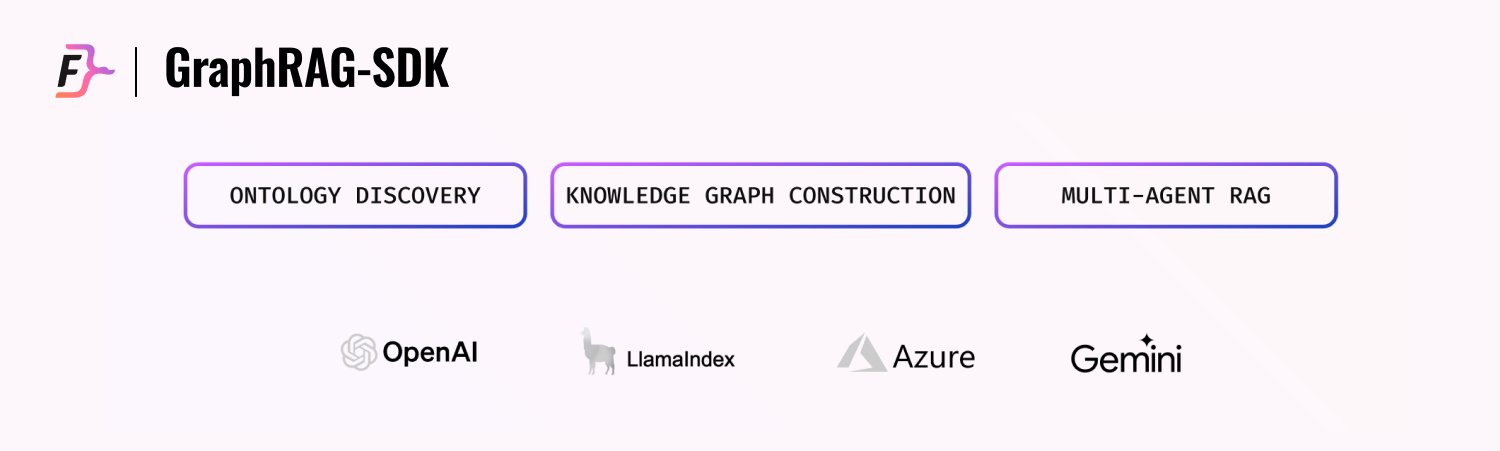
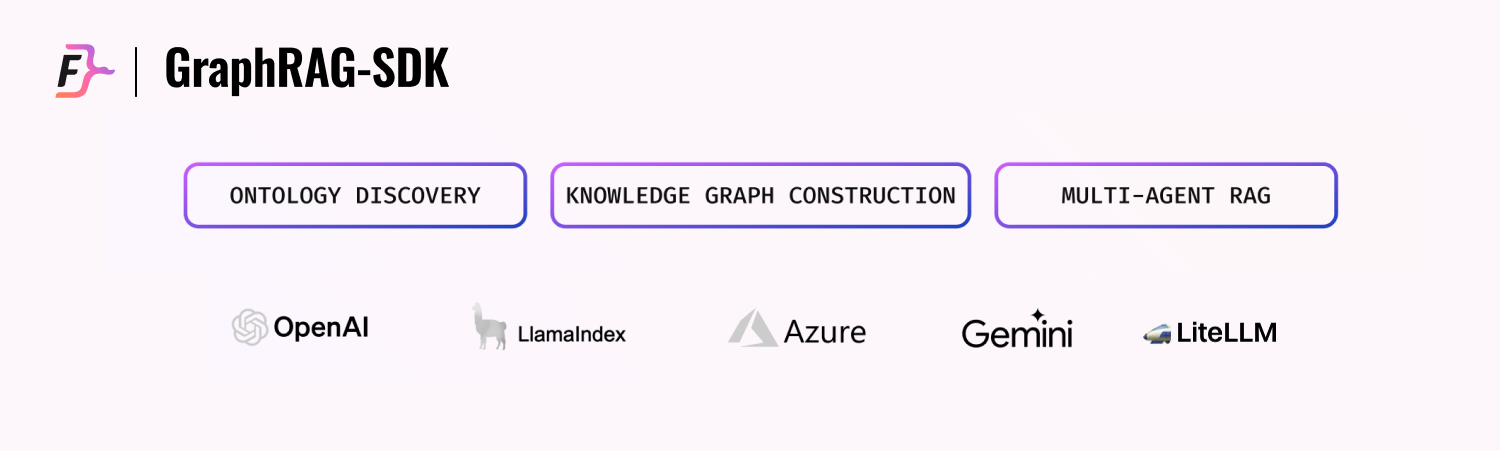
readme-updates

Changed region(s): [[0.4907, 0.6829, 0.8587, 0.8381], [0.1533, 0.6829, 0.4907, 0.8381]]

diff --git a/README.md b/README.md
@@ -1,70 +1,38 @@
-
-**GraphRAG** 
+# GraphRAG 
 [![Dockerhub](https://img.shields.io/docker/pulls/falkordb/falkordb?label=Docker)](https://hub.docker.com/r/falkordb/falkordb/)
 [![pypi](https://badge.fury.io/py/graphrag_sdk.svg)](https://pypi.org/project/graphrag_sdk/)
 [![Discord](https://img.shields.io/discord/1146782921294884966?style=flat-square)](https://discord.gg/6M4QwDXn2w)
 [![Contributor Covenant](https://img.shields.io/badge/Contributor%20Covenant-2.1-4baaaa.svg)](code_of_conduct.md) 
 <p align="center">
-  <img alt="graph-rag-sdk" src="images/FalkorDB GraphRAG-SDK README Banner.png" width="1000">
+  <img alt="FalkorDB GraphRAG-SDK README Banner" src="images/FalkorDB GraphRAG-SDK README Banner.png" width="1500">
 </p>
-Build fast and accurate GenAI apps with GraphRAG SDK at scale.
 
-Documentation available at: [LINK](https://www.falkordb.com/)
+### Build fast and accurate GenAI apps with GraphRAG SDK at scale
 
-[![Try Free](https://img.shields.io/badge/Try%20Free-FalkorDB%20Cloud-FF8101?labelColor=FDE900&style=for-the-badge&link=https://app.falkordb.cloud)](https://app.falkordb.cloud)
-
-
-# What’s included?
-
-LLM Support Banner
-
-* **Ontology Management:** Automate ontology creation from unstructured data or define it manually.
-* **Knowledge Graph Integration:** Build, query, and manage knowledge graphs optimized for retrieval and augmentation tasks.
-* **LLM Compatibility:** Supports OpenAI GPT models, Google Gemini, Azure-OpenAI, Ollama, Multi-modality framework LiteLLM.
-* **Multi-Agent Systems:** Orchestrate specialized agents for domain-specific tasks with knowledge graph-driven intelligence.
-* **Scalable Infrastructure:** Leverages FalkorDB for high-performance graph querying and multi-tenancy.
-* **Extensive File Format Support:** Ingest data from PDFs, CSVs, JSONL, HTML, and more.
+Documentation available at: [LINK](https://docs.falkordb.com/)
 
 Simplify the development of your next GenAI application with GraphRAG-SDK, a specialized toolkit for building Graph Retrieval-Augmented Generation (GraphRAG) systems. It integrates knowledge graphs, ontology management, and state-of-the-art LLMs to deliver accurate, efficient, and customizable RAG workflows.
 
-
-## Key Features
-<p align="center">
-  <img alt="key-features" src="images/key-features.png" width="500">
-</p>
-
-* **Ontology Management:** Automate ontology creation from unstructured data or define it manually.
-* **Knowledge Graph Integration:** Build, query, and manage knowledge graphs optimized for retrieval and augmentation tasks.
-* **LLM Compatibility:** Supports OpenAI GPT models, Google Gemini, Azure-OpenAI, Ollama, Multi-modality framework LiteLLM.
-* **Multi-Agent Systems:** Orchestrate specialized agents for domain-specific tasks with knowledge graph-driven intelligence.
-* **Scalable Infrastructure:** Leverages FalkorDB for high-performance graph querying and multi-tenancy.
-* **Extensive File Format Support:** Ingest data from PDFs, CSVs, JSONL, HTML, and more.
-
-<p align="center">
-  <img alt="key-features" src="images/ingestion.png" width="800">
-</p>
-
 # GraphRAG Setup
-### Graph Database Setup
-GraphRAG uses FalkorDB as its graph engine.
-* **[FalkorDB Cloud](https://app.falkordb.cloud/):** Obtain credentials from the cloud dashboard.
-* **Local Deployment:**
+### Database Setup
+
+* **<a href="https://app.falkordb.cloud" target="_blank">FalkorDB Cloud</a>:** Obtain credentials from the cloud dashboard.
+* **Local Deployment with Docker:**
 
 ```sh
 docker run -p 6379:6379 -p 3000:3000 -it --rm  -v ./data:/data falkordb/falkordb:latest
 ```
 
-### dependencies:
-
-For all dependencies
+### Dependencies:
 ```sh
+# For all LLM providers
 pip install graphrag_sdk[all]
-```
-Only OpenAI
-```sh
+
+# For specific LLM provider (Example: OpenAI)
 pip install graphrag_sdk[openai]
 ```
-### Configure Credentials. See .env.template for examples.
+
+### Configure Credentials. See [.env](.env.template) for examples.
 
 * [OpenAI](https://openai.com/index/openai-api) Recommended model:`gpt-4o`
 * [Google](https://makersuite.google.com/app/apikey) Recommended model:`gemini-1.5-flash-001`
@@ -73,10 +41,8 @@ pip install graphrag_sdk[openai]
 
 
 # How to use
-### Importing your data
-Banner
 
-### Creating Ontologies
+### Step 1: Creating Ontologies
 Automate ontology creation from unstructured data or define it manually.
 
 ```python
@@ -111,12 +77,11 @@ with open("ontology.json", "w", encoding="utf-8") as file:
     file.write(json.dumps(ontology.to_json(), indent=2))
 ```
 
-### Creating a knowledge graph agent
+### Step 2: Creating a knowledge graph agent
 Build, query, and manage knowledge graphs optimized for retrieval and augmentation tasks. 
 Leverages FalkorDB for high-performance graph querying and multi-tenancy.
 
 ```python
-
 # After approving the ontology, load it from disk.
 ontology_file = "ontology.json"
 with open(ontology_file, "r", encoding="utf-8") as file:
@@ -131,8 +96,10 @@ kg = KnowledgeGraph(
 kg.process_sources(sources)
 ```
 
-### Configuring your prompts
-When creating your Knowledge Graph (KG) agent, you can customize the prompts to tailor its behavior. This step is optional but can enhance functionality.
+### Optional: Configuring your prompts
+When creating your Knowledge Graph (KG) agent, you can customize the prompts to tailor its behavior.
+
+💡 This step is optional but can enhance functionality.
 
 There are five types of prompts:
 
@@ -170,35 +137,48 @@ kg = KnowledgeGraph(
 )
 ```
 
-### Graph RAG
+### Step 3: Query your Graph RAG
 
 At this point, you have a Knowledge Graph that can be queried using this SDK. Use the method `chat_session` for start a conversation.
 
 ```python
-
-# Conversation.
+# Conversation
 chat = kg.chat_session()
-response = chat.send_message("Who is Salsa Boy?")
+response = chat.send_message("Who is the director of the movie The Matrix?")
 print(response)
-response = chat.send_message("Tell me about one of his fights?")
+response = chat.send_message("How this director connected to Keanu Reeves?")
 print(response)
 ```
 
-## Multi Agent - Orchestrator
+## Next Steps
+With these 3 steps now completed, you're ready to interact and query your knowledge graph.  Here are suggestions for use cases:
+<p align="left">
+  <img alt="GraphRAG-SDK Use Cases Banner from FalkordB" src="images/use-cases.png" width="800">
+</p>
+
+**Need help with your use case? let's [talk](https://www.falkordb.com/get-demo/)**
+
+<br />
+
+# AI Agents with GraphRAG
+
+### Orchestrator
+The GraphRAG-SDK supports Knowledge Graph-based agents. Each agent is an expert in the data it has learned, and the orchestrator orchestrates the agents.
+
+Check out the example:
 
 [![Open In Colab](https://colab.research.google.com/assets/colab-badge.svg)](https://colab.research.google.com/github/FalkorDB/GraphRAG-SDK/blob/main/examples/trip/demo_orchestrator_trip.ipynb)
 
-The GraphRAG-SDK supports KG agents. Each agent is an expert in the data it has learned, and the orchestrator orchestrates the agents.
 
 ### Agents
 
-See the [Basic Usage](#basic-usage) section to understand how to create KG objects for the agents.
+See the [Step 1](#Step-1:-Creating-Ontologies) section to understand how to create Knowledge Graph objects for the agents.
 
 ```python
 # Define the model
 model = OpenAiGenerativeModel("gpt-4o")
 
-# Create the KG from the predefined ontology.
+# Create the Knowledge Graph from the predefined ontology.
 # In this example, we will use the restaurants agent and the attractions agent.
 restaurants_kg = KnowledgeGraph(
     name="restaurants",
@@ -247,18 +227,15 @@ runner = orchestrator.ask("Create a two-day itinerary for a trip to Rome. Please
 print(runner.output)
 
 ```
+## Community
 
-## Use cases
-Banner
+Have questions or feedback? Reach out via:
+- [GitHub Issues](https://github.com/FalkorDB/GraphRAG-SDK/issues)
+- Join our [Discord](https://discord.com/invite/6M4QwDXn2w)
 
-* Enterprise Search: Enable domain-specific searches with LLM-augmented responses.
-* Customer Support: Automate Q&A systems using domain-trained agents.
-* Research Tools: Build domain-specific research assistants for structured and unstructured data
+⭐ If you find this repository helpful, please consider giving it a star!
 
-## Use Cases
-* **Enterprise Search:** Enable domain-specific searches with LLM-augmented responses.
-* **Customer Support:** Automate Q&A systems using domain-trained agents.
-* **Research Tools:** Build domain-specific research assistants for structured and unstructured data.
+
 
 ## FAQ
 **Which databases are supported?**
@@ -268,10 +245,6 @@ GraphRAD-SDK is optimized for FalkorDB. Other backends may require adapters.
 **How scalable is the SDK?**
 
 GraphRAD-SDK is designed for multi-tenancy and large-scale applications. Performance depends on FalkorDB deployment configuration.
-
-**Can I define custom embeddings?**
-
-Yes. You can override the default embedding pipeline by defining your own embedding functions.
 
 **What is GraphRAG?**
 
@@ -294,29 +267,10 @@ The SDK is optimized for low-latency operations through FalkorDB, using techniqu
 
 Yes. Multi-graph querying is supported with APIs designed for cross-domain and hierarchical graph exploration.
 
-**Can I use custom embeddings?**
+<br />
 
-Yes. The SDK allows overriding default embedding mechanisms to use custom or domain-specific embeddings.
-
-
-
-## Community
-
-<p align="center">
-  <img alt="key-features" src="images/community.png" width="800">
-</p>
-
-
-Have questions or feedback? Reach out via:
-- [GitHub Issues](https://github.com/orgs/FalkorDB/issues)
-- Join our [Discord](https://discord.com/invite/6M4QwDXn2w)
-
-⭐ If you find this repository helpful, please consider giving it a star!
-
-Keywords: RAG, graphrag, Retrieval-Augmented Generation, NLP, AI, Information Retrieval, Natural Language Processing, LLM, Embeddings, Semantic Search
-
-### Heading 3: License
+# License
 
 This project is licensed under the MIT License. See the [LICENSE](LICENSE) file for details.
 
-
+Keywords: RAG, graphrag, Retrieval-Augmented Generation, NLP, AI, Information Retrieval, Natural Language Processing, LLM, Embeddings, Semantic Search
